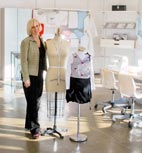
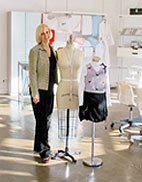
Сделал новые рамки для картинок на главной

diff --git a/www/css/style.min.css b/www/css/style.min.css
@@ -1,1 +1,1 @@
-@import "reset.css";@import "../font/fonts.css";*{padding:0;margin:0}html{height:100%;background:#2a0302 url('../images/body-bg.png') no-repeat 0 0}body{font-family:Arial,sans-serif;font-size:12px;color:#fff;min-height:100%}* html body{height:100%}* html #bodywrapper{height:100%}* html #bodycontainer{height:100%}p{color:#f5a7ac;margin:7px 0 10px;line-height:125%}hr{height:0;border:0;border-top:1px solid white;opacity:.43;margin:0 6px}a{color:#fff;text-decoration:none}a:hover{text-decoration:underline}strong,.strong{color:#fff;font-weight:700}h1{font-family:'MajesticRegular';font-size:30px}h2{font-size:22px}.half{width:50%}.one-third{width:33%}.fl{float:left}.fr{float:right}.oh{overflow:hidden}.center-block{margin:0 auto}.hide-text{text-indent:-100000000px}a.arrow{display:block;width:46px;height:71px;position:absolute}a.next{right:-6px;top:26px;background:url('../images/next.png') no-repeat}a.prev{left:-9px;top:26px;background:url('../images/prev.png') no-repeat}.center{text-align:center}.center-container{display:inline-block;height:auto;overflow:visible;vertical-align:middle}ul.navigation{overflow:hidden;list-style:none}ul.navigation li{float:left}div.images-container{overflow:hidden;margin:0 auto;position:relative;height:122px;width:920px}ul.images{list-style:none;overflow-y:hidden;position:absolute}ul.images li{float:left;display:block;position:relative;margin-right:33px}ul.images li em{background:url('../images/image-border.png') no-repeat;display:block;width:157px;height:122px}ul.images li img{position:absolute;top:10px;left:10px}ul.images li.active em{background-position:-190px 0}.profile-image{overflow:hidden;float:left;position:relative;margin-right:10px}.profile-image em{display:block}.profile-image img{position:absolute;top:10px;left:10px}.profile-image.big em{background:url('../images/profile-image-border.png') no-repeat;width:159px;height:171px}.profile-image.big img{top:10px;left:8px}.profile-image.small em{background:url('../images/profile-image-border-small.png') no-repeat;width:102px;height:107px}.profile-image.small img{top:9px;left:9px}.three-column-list{overflow:hidden;position:relative}.three-column-list li{width:33%;float:left;position:relative}.three-column-list li div{overflow:hidden}.three-column-list li div.one{float:left}.three-column-list li div.two{margin:0 auto}.three-column-list li div.three{float:right}.three-column-list li.clear{margin:0;padding:0;height:0;width:100%}.three-column-list .image{overflow:hidden;position:relative}.three-column-list .image em{display:block}.three-column-list .image img{position:absolute}.collections{overflow:hidden;position:relative}.collections li{width:33%;float:left;position:relative}.collections li div{overflow:hidden}.collections li div.one{float:left}.collections li div.two{margin:0 auto}.collections li div.three{float:right}.collections li.clear{margin:0;padding:0;height:0;width:100%}.collections .image{overflow:hidden;position:relative}.collections .image em{display:block}.collections .image img{position:absolute}.collections li{min-width:268px;margin-bottom:100px}.collections li div{width:268px}.collections li div h1{margin:5px 0 15px}.collections li div ul li{display:inline;font-size:11px;border-left:1px solid #ae4e43;margin:0;float:none}.collections li div ul li:first-child{border:0}.collections li div ul li a{margin:0 5px}.collections .image em{width:268px;height:268px;background:transparent url('../images/collection-image-border.png') no-repeat}.collections .image img{top:9px;left:9px}.left-sidebar-body{overflow:hidden;margin-left:240px}.left-sidebar-body hr{margin-top:10px}.models{overflow:hidden;position:relative;margin-top:20px}.models li{width:33%;float:left;position:relative}.models li div{overflow:hidden}.models li div.one{float:left}.models li div.two{margin:0 auto}.models li div.three{float:right}.models li.clear{margin:0;padding:0;height:0;width:100%}.models .image{overflow:hidden;position:relative}.models .image em{display:block}.models .image img{position:absolute}.models li{min-width:232px;margin-bottom:40px;text-align:center}.models li div{width:232px}.models .image em{width:232px;height:304px;background:transparent url('../images/model-image-border.png') no-repeat}.models .image img{top:9px;left:9px}.fabrics{margin-top:20px}.fabrics li{overflow:hidden;margin-bottom:30px}.fabrics .image{overflow:hidden;position:relative;float:left;margin-right:20px}.fabrics .image em{display:block}.fabrics .image img{position:absolute}.fabrics .image em{width:168px;height:168px;background:transparent url('../images/fabric-border.png') no-repeat}.fabrics .image img{top:9px;left:9px}.shape ul{font-family:Georgia,serif;font-size:13px}.shape ul li{line-height:30px;padding-left:15px;background:url('../images/bullet.png') no-repeat 0 center}.shape ul li.active a{color:#f48b79}.shapes-container{padding-bottom:15px}.vcard{margin:13px 0}.tel,.fn,.email,.adr{color:#fff;font-weight:700}#bodywrapper{background:url('../images/lines-bg.png') repeat;position:absolute;min-height:100%;left:0;top:0;bottom:0;right:0}#bodycontainer,#footer-wrapper{margin:0 auto;width:90%;min-width:1050px;min-height:100%;z-index:2;position:relative}#logo{text-indent:-100000000px;width:531px;height:369px;position:absolute;top:0;left:-50px;background:url('../images/logo_bg.png') no-repeat 0 0;z-index:1}#header{overflow:hidden;padding-top:35px}#header ul.navigation{float:left;font-family:Georgia,Times New Roman,serif;font-size:18px;margin:32px 0;padding-right:20px}#header ul.navigation li{margin:0 15px}#header ul.navigation li a{padding:1px 15px;line-height:27px}#header ul.navigation li.active{background:url('../images/main-li-separator.png') no-repeat center left}#header ul.navigation li.active a{background:url('../images/active-li-bg.png') repeat}#header #languages{overflow:hidden}#header #languages p{margin:2px}#header #languages ul{font-family:Georgia,Times New Roman,serif;font-size:14px}#header #languages ul li{float:left;margin:0 5px}#header #languages ul li a{padding:1px 5px;line-height:20px}#header #languages ul li.active{background:url('../images/main-li-separator-lang.png') no-repeat center left}#header #languages ul li.active a{background:url('../images/active-li-bg.png') repeat}#body{margin-top:65px}#content{min-width:1050px}#footer{overflow-y:hidden;height:46px;padding-top:54px;margin-top:-100px}#footer-wrapper{overflow-y:hidden;border-top:1px solid #613e3e;padding-top:17px}#footer-spacer{height:100px}#menu-separator{float:right;width:222px;height:99px;background:url('../images/slogan.png') no-repeat center right;margin-left:30px}#slogan{float:right;width:1px;height:86px;background:url('../images/separator.png') no-repeat center right}#footer ul.navigation li{border-right:1px solid #713e41}#footer ul.navigation li a{margin:0 15px}#footer ul.navigation li.last{border:0}#catalog{overflow:hidden;position:relative;width:1000px;height:122px;margin:18px auto 67px auto}#aboutus-container{overflow:hidden;padding:10px 7px}#shapes{padding:0 7px}#models{float:left;width:33%;padding-left:65px;background:url('../images/crap/girl.png') no-repeat center right;min-height:236px}#models ul{margin-right:150px}#materials{float:right;margin-right:65px;background:url('../images/crap/materials.png') no-repeat center right;min-height:201px}#materials ul{margin-right:250px}#services{overflow:hidden;margin-top:65px;padding:0 7px}#services .wrap{padding-right:60px;margin-top:5px}#services .wrap p{overflow:hidden;padding-left:15px}#copyright{margin-right:25px}#sidebar{position:absolute;width:200px}#thumbnailsContainer{float:left;margin-left:10px;margin-right:20px;overflow-x:hidden;overflow-y:auto;height:342px}#thumbnails{width:124px}#thumbnails li{overflow:hidden;clear:both;margin-bottom:7px;width:102px;min-width:102px}#thumbnails li div{width:102px}#model-nav{overflow:hidden;clear:both;position:relative;margin-top:50px}#model-nav ul li{width:50%;display:block}#model-nav ul li.prev{float:left}#model-nav ul li.prev a{float:right;padding-right:7px;margin-right:7px;border-right:1px solid #ae4e43}#model-nav ul li.next{float:right}#model-nav p{position:absolute;margin:0}ul#paginator{overflow:hidden}ul#paginator li{float:left;width:20px;height:20px;margin:0 4px;padding:0}ul#paginator li a{text-indent:-100000000px;display:block;width:20px;height:20px;background:transparent url('/images/pagination-bullet.png') no-repeat 4px center}ul#paginator li.active a{background-position:right center}#contacts ul li{border-bottom:1px solid #8f493d}#contacts ul li .store{position:relative}#contacts ul li .store p.time{margin:18px 0}#contacts ul li .store p.phone{margin-bottom:25px}#contacts .mapLink{position:absolute;right:0;top:50%;margin-top:-7px}#contacts .mapContainer{display:none}#contacts .mapContainer .YMaps{margin:0 auto}.YMaps{color:#000}
+@import "reset.css";@import "../font/fonts.css";*{padding:0;margin:0}html{height:100%;background:#2a0302 url('../images/body-bg.png') no-repeat 0 0}body{font-family:Arial,sans-serif;font-size:12px;color:#fff;min-height:100%}* html body{height:100%}* html #bodywrapper{height:100%}* html #bodycontainer{height:100%}p{color:#f5a7ac;margin:7px 0 10px;line-height:125%}hr{height:0;border:0;border-top:1px solid white;opacity:.43;margin:0 6px}a{color:#fff;text-decoration:none}a:hover{text-decoration:underline}strong,.strong{color:#fff;font-weight:700}h1{font-family:'MajesticRegular';font-size:30px}h2{font-size:22px}.half{width:50%}.one-third{width:33%}.fl{float:left}.fr{float:right}.oh{overflow:hidden}.center-block{margin:0 auto}.hide-text{text-indent:-100000000px}a.arrow{display:block;width:46px;height:71px;position:absolute}a.next{right:-6px;top:52px;background:url('../images/next.png') no-repeat}a.prev{left:-9px;top:52px;background:url('../images/prev.png') no-repeat}.center{text-align:center}.center-container{display:inline-block;height:auto;overflow:visible;vertical-align:middle}ul.navigation{overflow:hidden;list-style:none}ul.navigation li{float:left}div.images-container{overflow:hidden;margin:0 auto;position:relative;height:175px;width:920px}ul.images{list-style:none;overflow-y:hidden;position:absolute}ul.images li{float:left;display:block;position:relative;margin-right:33px}ul.images li em{background:url('../images/image-border.png') no-repeat;display:block;width:157px;height:175px}ul.images li img{position:absolute;top:10px;left:10px}ul.images li.active em{background-position:-190px 0}.profile-image{overflow:hidden;float:left;position:relative;margin-right:10px}.profile-image em{display:block}.profile-image img{position:absolute;top:10px;left:10px}.profile-image.big em{background:url('../images/profile-image-border.png') no-repeat;width:159px;height:201px}.profile-image.big img{top:10px;left:8px}.profile-image.small em{background:url('../images/profile-image-border-small.png') no-repeat;width:102px;height:107px}.profile-image.small img{top:9px;left:9px}.three-column-list{overflow:hidden;position:relative}.three-column-list li{width:33%;float:left;position:relative}.three-column-list li div{overflow:hidden}.three-column-list li div.one{float:left}.three-column-list li div.two{margin:0 auto}.three-column-list li div.three{float:right}.three-column-list li.clear{margin:0;padding:0;height:0;width:100%}.three-column-list .image{overflow:hidden;position:relative}.three-column-list .image em{display:block}.three-column-list .image img{position:absolute}.collections{overflow:hidden;position:relative}.collections li{width:33%;float:left;position:relative}.collections li div{overflow:hidden}.collections li div.one{float:left}.collections li div.two{margin:0 auto}.collections li div.three{float:right}.collections li.clear{margin:0;padding:0;height:0;width:100%}.collections .image{overflow:hidden;position:relative}.collections .image em{display:block}.collections .image img{position:absolute}.collections li{min-width:268px;margin-bottom:100px}.collections li div{width:268px}.collections li div h1{margin:5px 0 15px}.collections li div ul li{display:inline;font-size:11px;border-left:1px solid #ae4e43;margin:0;float:none}.collections li div ul li:first-child{border:0}.collections li div ul li a{margin:0 5px}.collections .image em{width:268px;height:268px;background:transparent url('../images/collection-image-border.png') no-repeat}.collections .image img{top:9px;left:9px}.left-sidebar-body{overflow:hidden;margin-left:240px}.left-sidebar-body hr{margin-top:10px}.models{overflow:hidden;position:relative;margin-top:20px}.models li{width:33%;float:left;position:relative}.models li div{overflow:hidden}.models li div.one{float:left}.models li div.two{margin:0 auto}.models li div.three{float:right}.models li.clear{margin:0;padding:0;height:0;width:100%}.models .image{overflow:hidden;position:relative}.models .image em{display:block}.models .image img{position:absolute}.models li{min-width:232px;margin-bottom:40px;text-align:center}.models li div{width:232px}.models .image em{width:232px;height:304px;background:transparent url('../images/model-image-border.png') no-repeat}.models .image img{top:9px;left:9px}.fabrics{margin-top:20px}.fabrics li{overflow:hidden;margin-bottom:30px}.fabrics .image{overflow:hidden;position:relative;float:left;margin-right:20px}.fabrics .image em{display:block}.fabrics .image img{position:absolute}.fabrics .image em{width:168px;height:168px;background:transparent url('../images/fabric-border.png') no-repeat}.fabrics .image img{top:9px;left:9px}.shape ul{font-family:Georgia,serif;font-size:13px}.shape ul li{line-height:30px;padding-left:15px;background:url('../images/bullet.png') no-repeat 0 center}.shape ul li.active a{color:#f48b79}.shapes-container{padding-bottom:15px}.vcard{margin:13px 0}.tel,.fn,.email,.adr{color:#fff;font-weight:700}#bodywrapper{background:url('../images/lines-bg.png') repeat;position:absolute;min-height:100%;left:0;top:0;bottom:0;right:0}#bodycontainer,#footer-wrapper{margin:0 auto;width:90%;min-width:1050px;min-height:100%;z-index:2;position:relative}#logo{text-indent:-100000000px;width:531px;height:369px;position:absolute;top:0;left:-50px;background:url('../images/logo_bg.png') no-repeat 0 0;z-index:1}#header{overflow:hidden;padding-top:35px}#header ul.navigation{float:left;font-family:Georgia,Times New Roman,serif;font-size:18px;margin:32px 0;padding-right:20px}#header ul.navigation li{margin:0 15px}#header ul.navigation li a{padding:1px 15px;line-height:27px}#header ul.navigation li.active{background:url('../images/main-li-separator.png') no-repeat center left}#header ul.navigation li.active a{background:url('../images/active-li-bg.png') repeat}#header #languages{overflow:hidden}#header #languages p{margin:2px}#header #languages ul{font-family:Georgia,Times New Roman,serif;font-size:14px}#header #languages ul li{float:left;margin:0 5px}#header #languages ul li a{padding:1px 5px;line-height:20px}#header #languages ul li.active{background:url('../images/main-li-separator-lang.png') no-repeat center left}#header #languages ul li.active a{background:url('../images/active-li-bg.png') repeat}#body{margin-top:65px}#content{min-width:1050px}#footer{overflow-y:hidden;height:46px;padding-top:54px;margin-top:-100px}#footer-wrapper{overflow-y:hidden;border-top:1px solid #613e3e;padding-top:17px}#footer-spacer{height:100px}#menu-separator{float:right;width:222px;height:99px;background:url('../images/slogan.png') no-repeat center right;margin-left:30px}#slogan{float:right;width:1px;height:86px;background:url('../images/separator.png') no-repeat center right}#footer ul.navigation li{border-right:1px solid #713e41}#footer ul.navigation li a{margin:0 15px}#footer ul.navigation li.last{border:0}#catalog{overflow:hidden;position:relative;width:1000px;height:175px;margin:18px auto 50px auto}#aboutus-container{overflow:hidden;padding:10px 7px}#shapes{padding:0 7px}#models{float:left;width:33%;padding-left:65px;background:url('../images/crap/girl.png') no-repeat center right;min-height:236px}#models ul{margin-right:150px}#materials{float:right;margin-right:65px;background:url('../images/crap/materials.png') no-repeat center right;min-height:201px}#materials ul{margin-right:250px}#services{overflow:hidden;margin-top:65px;padding:0 7px}#services .wrap{padding-right:60px;margin-top:5px}#services .wrap p{overflow:hidden;padding-left:15px}#copyright{margin-right:25px}#sidebar{position:absolute;width:200px}#thumbnailsContainer{float:left;margin-left:10px;margin-right:20px;overflow-x:hidden;overflow-y:auto;height:342px}#thumbnails{width:124px}#thumbnails li{overflow:hidden;clear:both;margin-bottom:7px;width:102px;min-width:102px}#thumbnails li div{width:102px}#model-nav{overflow:hidden;clear:both;position:relative;margin-top:50px}#model-nav ul li{width:50%;display:block}#model-nav ul li.prev{float:left}#model-nav ul li.prev a{float:right;padding-right:7px;margin-right:7px;border-right:1px solid #ae4e43}#model-nav ul li.next{float:right}#model-nav p{position:absolute;margin:0}ul#paginator{overflow:hidden}ul#paginator li{float:left;width:20px;height:20px;margin:0 4px;padding:0}ul#paginator li a{text-indent:-100000000px;display:block;width:20px;height:20px;background:transparent url('/images/pagination-bullet.png') no-repeat 4px center}ul#paginator li.active a{background-position:right center}#contacts ul li{border-bottom:1px solid #8f493d}#contacts ul li .store{position:relative}#contacts ul li .store p.time{margin:18px 0}#contacts ul li .store p.phone{margin-bottom:25px}#contacts .mapLink{position:absolute;right:0;top:50%;margin-top:-7px}#contacts .mapContainer{display:none}#contacts .mapContainer .YMaps{margin:0 auto}.YMaps{color:#000}

diff --git a/www/css/style.css b/www/css/style.css
@@ -85,12 +85,12 @@ a.arrow {
 }
 a.next {
   right: -6px;
-  top: 26px;
+  top: 52px;
   background: url('../images/next.png') no-repeat;
 }
 a.prev {
   left: -9px;
-  top: 26px;
+  top: 52px;
   background: url('../images/prev.png') no-repeat;
 }
 .center {
@@ -113,7 +113,7 @@ div.images-container {
   overflow: hidden;
   margin: 0 auto;
   position: relative;
-  height: 122px;
+  height: 175px;
   width: 920px;
 }
 ul.images {
@@ -131,7 +131,7 @@ ul.images li em {
   background: url('../images/image-border.png') no-repeat;
   display: block;
   width: 157px;
-  height: 122px;
+  height: 175px;
 }
 ul.images li img {
   position: absolute;
@@ -158,7 +158,7 @@ ul.images li.active em {
 .profile-image.big em {
   background: url('../images/profile-image-border.png') no-repeat;
   width: 159px;
-  height: 171px;
+  height: 201px;
 }
 .profile-image.big img {
   top: 10px;
@@ -516,8 +516,8 @@ ul.images li.active em {
   overflow: hidden;
   position: relative;
   width: 1000px;
-  height: 122px;
-  margin: 18px auto 67px auto;
+  height: 175px;
+  margin: 18px auto 50px auto;
 }
 #aboutus-container {
   overflow: hidden;

diff --git a/www/css/style.less b/www/css/style.less
@@ -29,7 +29,7 @@ div.images-container {
 	.oh;
 	.center-block;
 	position:relative;
-	height:122px;
+	height:175px;
 	width:920px;
 }
 ul.images {
@@ -45,7 +45,7 @@ ul.images {
 			background:url('../images/image-border.png') no-repeat;
 			display:block;
 			width:157px;
-			height:122px;
+			height:175px;
 			}
 		img {
 			position:absolute;
@@ -76,7 +76,7 @@ ul.images {
 		em {
 			background:url('../images/profile-image-border.png') no-repeat;
 			width:159px;
-			height:171px;
+			height:201px;
 		}
 		img {
 			top:10px;
@@ -368,8 +368,8 @@ ul.images {
 	.oh;
 	position:relative;
 	width:1000px;
-	height:122px;
-	margin:18px auto 67px auto;
+	height:175px;
+	margin:18px auto 50px auto;
 	}
 #aboutus-container {
 	.oh;

diff --git a/www/css/common.less b/www/css/common.less
@@ -89,12 +89,12 @@ a.arrow {
 	}
 	a.next {
 		right:-6px;
-		top:26px;
+		top:52px;
 		background:url('../images/next.png') no-repeat;
 		}
 	a.prev {
 		left:-9px;
-		top:26px;
+		top:52px;
 		background:url('../images/prev.png') no-repeat;
 		}
 .center {

diff --git a/application/models/ModelPhoto.php b/application/models/ModelPhoto.php
@@ -31,8 +31,8 @@ class Model_ModelPhoto extends Model_Photo {
 			'indication' => 's'
 		),
 		self::SIZE_ROLL => array(
-			'width' => 142,
-			'height' => 105,
+			'width' => 140,
+			'height' => 155,
 			'indication_type' => self::INDICATION_SUFFIX,
 			'indication' => 'r'
 		),
